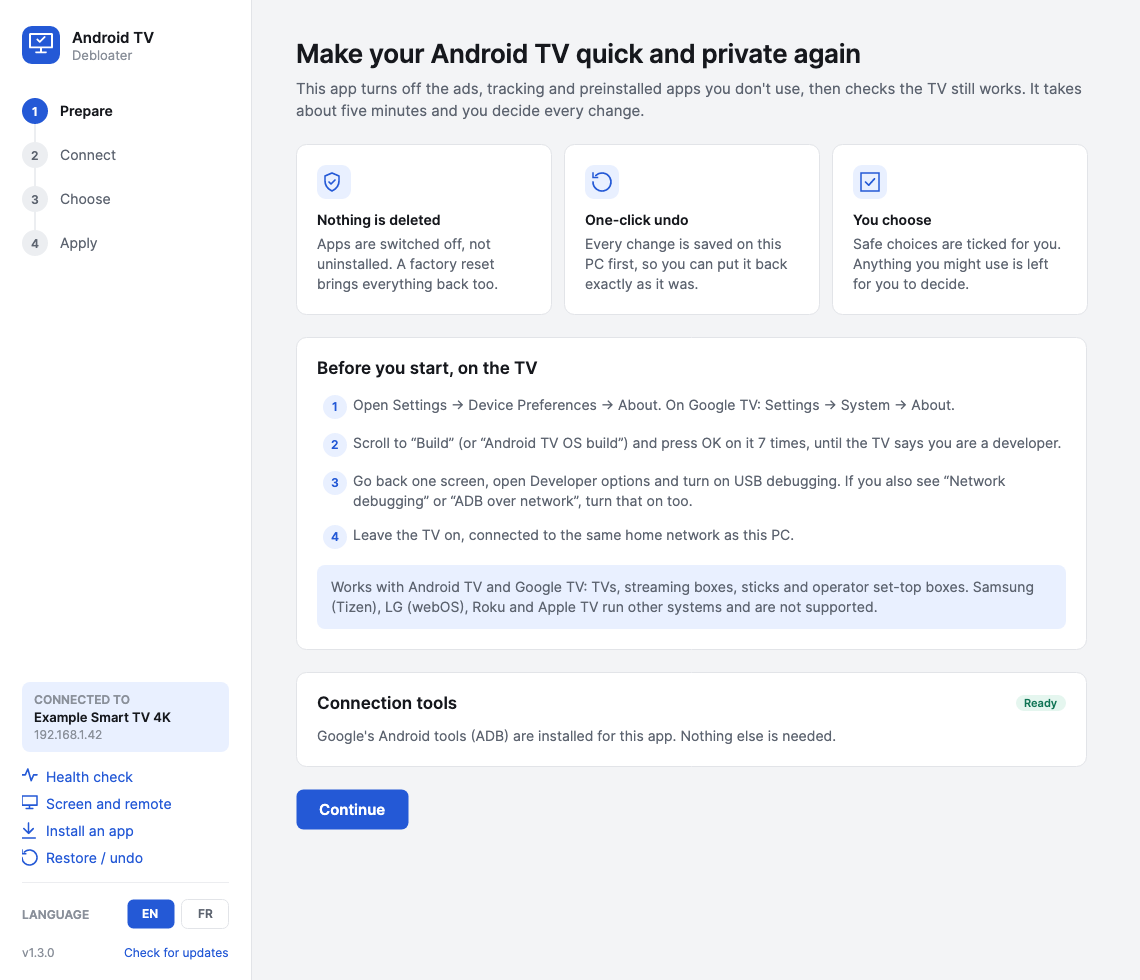
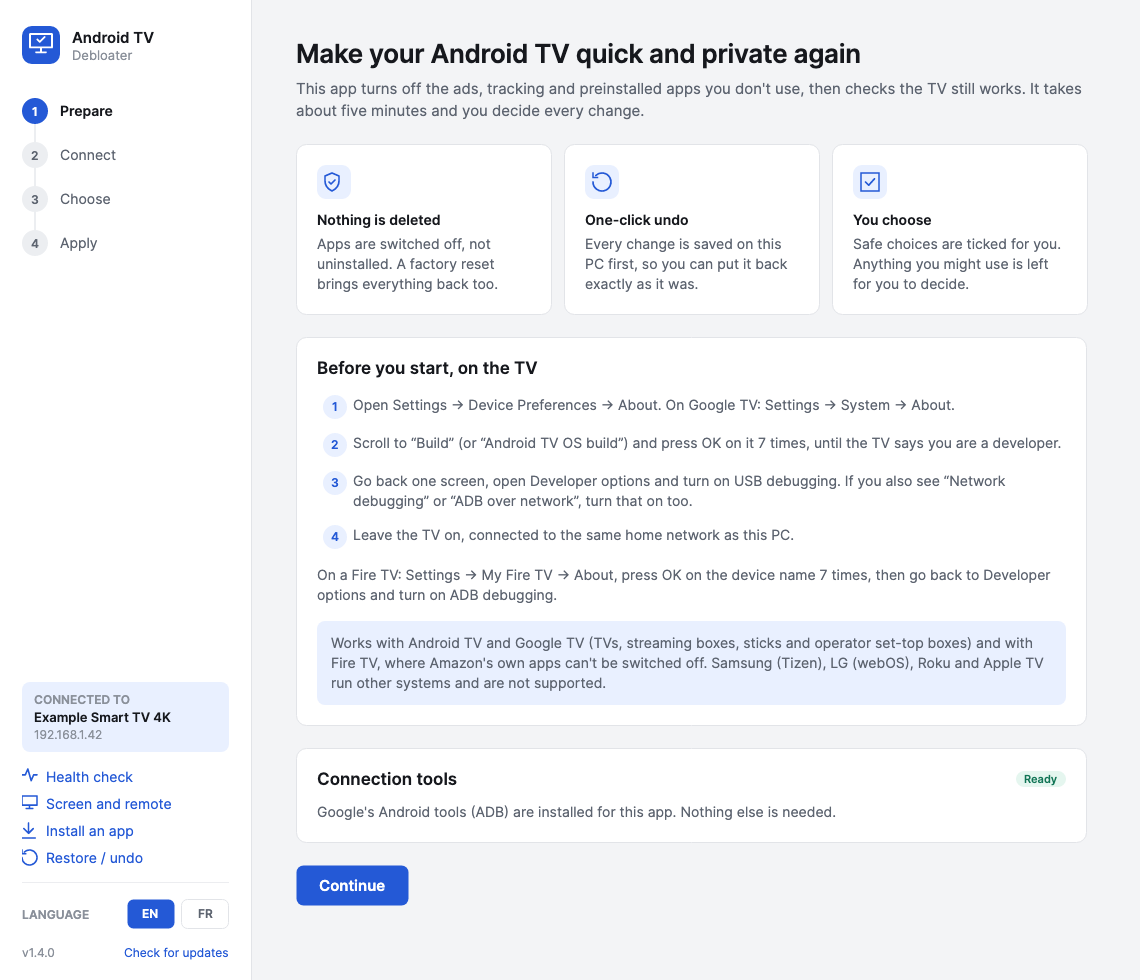
UI polish: aligned Mac sidebar tools, readable process names, local number formats
- Mac: the tools are a "Tools" section of the sidebar list, so icons share one
  column and the open tool is highlighted; the PC app marks it in bold.
- From any tool page, "Choose" in the steps leads back to the list (both apps).
- Health: Refresh is a toolbar button on Mac; the three tiles share one height;
  uptime reads "less than an hour" / "an hour"; system processes get readable
  names from a new "names" section of the catalog (v9).
- Numbers and dates follow the app's language on Windows/Linux (0,9 Go in French).
- Restore summary no longer says "1 applications"; remote placeholder fits.
- Fire TV: the simple screensaver is recommended again (confirmed working on
  Fire OS 7.6, along with private DNS).

diff --git a/mac/Sources/AndroidTVDebloater/App.swift b/mac/Sources/AndroidTVDebloater/App.swift
@@ -63,7 +63,7 @@ struct Sidebar: View {
     @Environment(AppModel.self) private var model
 
     var body: some View {
-        List(selection: Binding(get: { min(model.stepIndex, 3) }, set: { if let n = $0 { model.go(toStep: n) } })) {
+        List(selection: selection) {
             Section(L("Mac_Steps")) {
                 ForEach(0..<4, id: \.self) { i in
                     Label {
@@ -74,6 +74,16 @@ struct Sidebar: View {
                     }
                     .tag(i)
                     .selectionDisabled(!(i == min(model.stepIndex, 3) || model.canNavigate(toStep: i)))
+                }
+            }
+            // Tools for the connected TV. In the list, so icons share one column and the open one is highlighted.
+            if model.device != nil {
+                Section(L("Mac_Tools")) {
+                    ForEach(Self.tools, id: \.tag) { tool in
+                        Label(L(tool.key), systemImage: tool.icon)
+                            .tag(tool.tag)
+                            .selectionDisabled(model.isBusy)
+                    }
                 }
             }
         }
@@ -88,14 +98,6 @@ struct Sidebar: View {
                     .padding(10)
                     .frame(maxWidth: .infinity, alignment: .leading)
                     .background(.tint.opacity(0.12), in: RoundedRectangle(cornerRadius: 8))
-
-                    VStack(alignment: .leading, spacing: 8) {
-                        toolLink("Side_Health", "waveform.path.ecg") { model.goHealth() }
-                        toolLink("Side_Remote", "appletvremote.gen4") { model.goRemote() }
-                        toolLink("Side_Install", "square.and.arrow.down") { model.goInstall() }
-                        toolLink("Side_Restore", "arrow.uturn.backward") { model.goRestore() }
-                    }
-                    .disabled(model.isBusy)
                 }
                 Divider()
                 HStack {
@@ -113,8 +115,27 @@ struct Sidebar: View {
 }
 
 extension Sidebar {
-    func toolLink(_ key: String, _ icon: String, action: @escaping () -> Void) -> some View {
-        Button(action: action) { Label(L(key), systemImage: icon) }.buttonStyle(.link)
+    private static let tools: [(tag: Int, key: String, icon: String, page: Page)] = [
+        (10, "Side_Health", "waveform.path.ecg", .health),
+        (11, "Side_Remote", "appletvremote.gen4", .remote),
+        (12, "Side_Install", "square.and.arrow.down", .install),
+        (13, "Side_Restore", "arrow.uturn.backward", .restore),
+    ]
+
+    /// Steps are tagged 0-3, tools 10 and up.
+    private var selection: Binding<Int?> {
+        Binding(
+            get: { Self.tools.first { $0.page == model.page }?.tag ?? min(model.stepIndex, 3) },
+            set: { tag in
+                guard let tag else { return }
+                switch Self.tools.first(where: { $0.tag == tag })?.page {
+                case .health: model.goHealth()
+                case .remote: model.goRemote()
+                case .install: model.goInstall()
+                case .restore: model.goRestore()
+                default: model.go(toStep: tag)
+                }
+            })
     }
 }
 

diff --git a/mac/Sources/AndroidTVDebloater/Views/ToolsViews.swift b/mac/Sources/AndroidTVDebloater/Views/ToolsViews.swift
@@ -7,11 +7,7 @@ struct HealthView: View {
 
     var body: some View {
         PageLayout(title: L("Health_Title"), subtitle: L("Health_Lead")) {
-            HStack {
-                if health.isLoading { ProgressView().controlSize(.small) }
-                Spacer()
-                Button(L("Health_Refresh")) { Task { await health.refresh() } }.disabled(health.isLoading)
-            }
+            if health.isLoading { ProgressView().controlSize(.small) }
 
             if let r = health.report {
                 ForEach(health.tips) { tip in
@@ -27,9 +23,10 @@ struct HealthView: View {
                             Text(health.cpuText).fixedSize(horizontal: false, vertical: true)
                         }
                         .padding(6)
-                        .frame(maxWidth: .infinity, alignment: .leading)
+                        .frame(maxWidth: .infinity, maxHeight: .infinity, alignment: .topLeading)
                     }
                 }
+                .fixedSize(horizontal: false, vertical: true) // the three tiles share one height
 
                 Card(title: L("Health_TopTitle"), systemImage: "memorychip") {
                     Text(L("Health_TopText")).foregroundStyle(.secondary)
@@ -53,6 +50,11 @@ struct HealthView: View {
                 Button(L("Health_GoChoose")) { Task { await app.goChoose(reload: true) } }
             }
         }
+        .toolbar {
+            Button { Task { await health.refresh() } } label: { Label(L("Health_Refresh"), systemImage: "arrow.clockwise") }
+                .help(L("Health_Refresh"))
+                .disabled(health.isLoading)
+        }
     }
 
     private func gauge(_ title: String, _ used: Double, _ text: String) -> some View {
@@ -63,7 +65,7 @@ struct HealthView: View {
                 Text(text).foregroundStyle(.secondary)
             }
             .padding(6)
-            .frame(maxWidth: .infinity, alignment: .leading)
+            .frame(maxWidth: .infinity, maxHeight: .infinity, alignment: .topLeading)
         }
     }
 }
@@ -160,7 +162,7 @@ struct RemoteView: View {
                     Text(L("Remote_Keys")).font(.caption).foregroundStyle(.secondary).fixedSize(horizontal: false, vertical: true)
                 }
                 .padding(10)
-                .frame(width: 250)
+                .frame(width: 290)
             }
             .padding(.top, 70)
         }

diff --git a/mac/Sources/AndroidTVDebloater/Models/Catalog.swift b/mac/Sources/AndroidTVDebloater/Models/Catalog.swift
@@ -56,7 +56,10 @@ enum Catalog {
         var packages: [PackageDef]
         var settings: [SettingDef]?
         var keep: [KeepDef]?
+        var names: [NameDef]?
     }
+    /// A readable name for a system part (Health page). Never offered.
+    struct NameDef: Codable { var id: String; var name: LocText }
 
     /// Nil if the data isn't a catalog this version can use.
     static func parse(_ data: Data) -> File? {
@@ -98,7 +101,14 @@ enum Catalog {
     @MainActor static func isKeep(_ pkg: String) -> Bool { isKeep(current, pkg) }
 
     /// The catalog's name for an app, in the current language, if it has one.
-    @MainActor static func name(of pkg: String) -> String? { current.packages.first { $0.id == pkg }?.name.text }
+    /// A readable name for an app or process ("com.google.android.gms:snet" counts as its app).
+    @MainActor static func name(of pkg: String) -> String? {
+        for id in [pkg, String(pkg.split(separator: ":").first ?? "")] {
+            if let def = current.packages.first(where: { $0.id == id }) { return def.name.text }
+            if let n = current.names?.first(where: { $0.id == id }) { return n.name.text }
+        }
+        return nil
+    }
 
     /// Whether the Choose page would offer to turn this app off on this TV.
     @MainActor static func isOffered(_ dev: TvDevice, _ pkg: String) -> Bool {
@@ -167,9 +177,7 @@ enum Catalog {
         let options = (def.options ?? [])
             .filter { $0.installed.map(dev.isInstalled) ?? true }
             .map { TweakOption(label: $0.label, value: $0.value, keeps: $0.keeps ?? []) }
-        // The screensaver is not yet tested on Fire OS, whose own screensaver may ignore the setting.
-        let recommended = ((def.recommended ?? false) || (def.recommendedWhen.map { matches($0, dev) } ?? false))
-            && !(dev.isFireTv && def.kind == "screensaver")
+        let recommended = (def.recommended ?? false) || (def.recommendedWhen.map { matches($0, dev) } ?? false)
         let kind: Tweak.Kind
         switch def.kind ?? "settings" {
         case "settings":

diff --git a/mac/Sources/AndroidTVDebloater/Models/AppModel.swift b/mac/Sources/AndroidTVDebloater/Models/AppModel.swift
@@ -41,7 +41,9 @@ final class AppModel {
     }
 
     func canNavigate(toStep n: Int) -> Bool {
-        n < stepIndex && !isBusy && n < 3 && (n != 2 || device != nil)
+        // From a tool page (step 3 too), "Choose" leads back to the list.
+        let onTool = [.restore, .health, .install, .remote].contains(page)
+        return (n < stepIndex || (n == 2 && onTool)) && !isBusy && n < 3 && (n != 2 || device != nil)
     }
 
     func go(toStep n: Int) {
@@ -246,10 +248,12 @@ final class ConnectModel {
         RecentTvs.remember(address: target, name: dev.displayName)
         app.device = dev
         await app.goChoose()
-        // Development aid, with ATVD_CONNECT: ATVD_PAGE=health|remote opens a tool page (read-only).
+        // Development aid, with ATVD_CONNECT: ATVD_PAGE=health|remote|install|restore opens a tool page (read-only).
         switch ProcessInfo.processInfo.environment["ATVD_PAGE"] {
         case "health": app.goHealth()
         case "remote": app.goRemote()
+        case "install": app.goInstall()
+        case "restore": app.goRestore()
         default: break
         }
     }

diff --git a/mac/Sources/AndroidTVDebloater/Models/ToolsModels.swift b/mac/Sources/AndroidTVDebloater/Models/ToolsModels.swift
@@ -36,8 +36,10 @@ final class HealthModel {
 
     var cpuText: String {
         guard let r = report else { return "" }
-        let up = r.uptimeHours < 48 ? L("Health_Hours", Int(r.uptimeHours.rounded())) : L("Health_Days", Int((r.uptimeHours / 24).rounded()))
-        return L("Health_CpuText", String(format: "%.1f", r.load), r.cores, up)
+        let h = r.uptimeHours
+        let up = h < 0.5 ? L("Health_UnderHour") : h < 1.5 ? L("Health_OneHour")
+            : h < 48 ? L("Health_Hours", Int(h.rounded())) : L("Health_Days", Int((h / 24).rounded()))
+        return L("Health_CpuText", ChooseModel.oneDecimal(r.load), r.cores, up)
     }
 
     var tips: [HealthTip] {

diff --git a/src/AndroidTVDebloater/Localization/Strings.cs b/src/AndroidTVDebloater/Localization/Strings.cs
@@ -43,6 +43,8 @@ public static class Strings
         ["Health_StorageText"] = "{0} GB free of {1} GB",
         ["Health_CpuText"] = "Load {0} on {1} cores. On for {2}.",
         ["Health_Hours"] = "{0} hours",
+        ["Health_OneHour"] = "an hour",
+        ["Health_UnderHour"] = "less than an hour",
         ["Health_Days"] = "{0} days",
         ["Health_Mb"] = "{0} MB",
         ["Health_TopTitle"] = "Using the most memory",
@@ -76,7 +78,7 @@ public static class Strings
         ["Remote_VolDown"] = "Vol −",
         ["Remote_VolUp"] = "Vol +",
         ["Remote_TypeLabel"] = "TYPE ON THE TV",
-        ["Remote_TypeHint"] = "Search, password…",
+        ["Remote_TypeHint"] = "Search, password",
         ["Remote_Send"] = "Send",
         ["Remote_Keys"] = "Keyboard: arrows, Enter = OK, Backspace = Back, H = Home.",
         ["Side_CheckUpdates"] = "Check for updates",
@@ -227,7 +229,7 @@ public static class Strings
         ["Restore_RunsTitle"] = "Previous runs on this TV",
         ["Restore_Undo"] = "Undo this run",
         ["Restore_None"] = "No saved runs for this TV on this PC.",
-        ["Restore_Summary"] = "{0} apps turned off, {1} settings changed",
+        ["Restore_Summary"] = "Apps turned off: {0} · settings changed: {1}",
         ["Restore_Done"] = "Undone. The apps are back and the settings are as they were.",
         ["Restore_AllTitle"] = "Turn every app back on",
         ["Restore_AllText"] = "A safety net, even without a backup: turns back on every app that was switched off by hand on this TV, including by other tools. Apps the manufacturer disabled itself are left alone.",
@@ -292,6 +294,8 @@ public static class Strings
         ["Health_StorageText"] = "{0} Go libres sur {1} Go",
         ["Health_CpuText"] = "Charge {0} sur {1} cœurs. Allumé depuis {2}.",
         ["Health_Hours"] = "{0} heures",
+        ["Health_OneHour"] = "une heure",
+        ["Health_UnderHour"] = "moins d'une heure",
         ["Health_Days"] = "{0} jours",
         ["Health_Mb"] = "{0} Mo",
         ["Health_TopTitle"] = "Ce qui utilise le plus de mémoire",
@@ -325,7 +329,7 @@ public static class Strings
         ["Remote_VolDown"] = "Vol −",
         ["Remote_VolUp"] = "Vol +",
         ["Remote_TypeLabel"] = "ÉCRIRE SUR LE TÉLÉVISEUR",
-        ["Remote_TypeHint"] = "Recherche, mot de passe…",
+        ["Remote_TypeHint"] = "Recherche, mot de passe",
         ["Remote_Send"] = "Envoyer",
         ["Remote_Keys"] = "Clavier : flèches, Entrée = OK, Retour arrière = Retour, H = Accueil.",
         ["Side_CheckUpdates"] = "Mises à jour",
@@ -476,7 +480,7 @@ public static class Strings
         ["Restore_RunsTitle"] = "Opérations précédentes sur ce téléviseur",
         ["Restore_Undo"] = "Annuler cette opération",
         ["Restore_None"] = "Aucune opération enregistrée pour ce téléviseur sur ce PC.",
-        ["Restore_Summary"] = "{0} applications désactivées, {1} réglages modifiés",
+        ["Restore_Summary"] = "Applications désactivées : {0} · réglages modifiés : {1}",
         ["Restore_Done"] = "Annulé. Les applications sont revenues et les réglages sont comme avant.",
         ["Restore_AllTitle"] = "Réactiver toutes les applications",
         ["Restore_AllText"] = "Un filet de sécurité, même sans sauvegarde : réactive toutes les applications désactivées manuellement sur ce téléviseur, y compris par d'autres outils. Celles que le fabricant a désactivées lui-même ne sont pas touchées.",

diff --git a/src/AndroidTVDebloater/Models/Catalog.cs b/src/AndroidTVDebloater/Models/Catalog.cs
@@ -64,6 +64,8 @@ public static class Catalog
     }
     /// <summary>A known system part that must stay on: never offered, never reported as unknown.</summary>
     private sealed class KeepDef { public string Id { get; set; } = ""; }
+    /// <summary>A readable name for a system part (Health page). Never offered.</summary>
+    private sealed class NameDef { public string Id { get; set; } = ""; public Text Name { get; set; } = new(); }
     private sealed class OptionDef
     {
         public Text Label { get; set; } = new();
@@ -103,6 +105,7 @@ public static class Catalog
         public List<PackageDef> Packages { get; set; } = [];
         public List<SettingDef> Settings { get; set; } = [];
         public List<KeepDef> Keep { get; set; } = [];
+        public List<NameDef> Names { get; set; } = [];
     }
 
     private static readonly JsonSerializerOptions Json = new()
@@ -171,8 +174,17 @@ public static class Catalog
     public static bool IsKeep(string pkg) => _current.Keep.Any(k => k.Id == pkg);
 
     /// <summary>The catalog's name for an app, in the current language, if it has one.</summary>
-    public static string? NameOf(string pkg) =>
-        _current.Packages.FirstOrDefault(p => p.Id == pkg) is { } def ? L(def.Name).ToString() : null;
+    /// <summary>A readable name for an app or process ("com.google.android.gms:snet" counts as its app).</summary>
+    public static string? NameOf(string pkg)
+    {
+        var app = pkg.Split(':')[0];
+        foreach (var id in new[] { pkg, app })
+        {
+            if (_current.Packages.FirstOrDefault(p => p.Id == id) is { } def) return L(def.Name).ToString();
+            if (_current.Names.FirstOrDefault(n => n.Id == id) is { } n) return L(n.Name).ToString();
+        }
+        return null;
+    }
 
     /// <summary>Whether the Choose page would offer to turn this app off on this TV.</summary>
     public static bool IsOffered(TvDevice dev, string pkg) =>
@@ -262,8 +274,6 @@ public static class Catalog
             .Where(o => o.Installed is null || dev.IsInstalled(o.Installed))
             .Select(o => new TweakOption(L(o.Label), o.Value, o.Keeps)).ToList();
         var recommended = def.Recommended || (def.RecommendedWhen is not null && Matches(def.RecommendedWhen, dev));
-        // Not yet tested on Fire OS, whose own screensaver may ignore the setting.
-        if (dev.IsFireTv && def.Kind == "screensaver") recommended = false;
         var title = L(def.Name);
         var warning = def.Warning is null ? null : L(def.Warning);
 

diff --git a/src/AndroidTVDebloater/ViewModels/ToolsViewModels.cs b/src/AndroidTVDebloater/ViewModels/ToolsViewModels.cs
@@ -51,10 +51,17 @@ public sealed partial class HealthViewModel : PageViewModel
     public double StorageUsedPercent => Report is { StorageTotalMb: > 0 } r ? 100.0 * (r.StorageTotalMb - r.StorageFreeMb) / r.StorageTotalMb : 0;
     public string MemoryText => Report is null ? "" : Loc.Format("Health_MemoryText", Gb(Report.MemAvailableMb), Gb(Report.MemTotalMb));
     public string StorageText => Report is null ? "" : Loc.Format("Health_StorageText", Gb(Report.StorageFreeMb), Gb(Report.StorageTotalMb));
-    public string CpuText => Report is null ? "" : Loc.Format("Health_CpuText", Report.Load.ToString("0.0"), Report.Cores,
-        Report.UptimeHours < 48 ? Loc.Format("Health_Hours", Math.Round(Report.UptimeHours)) : Loc.Format("Health_Days", Math.Round(Report.UptimeHours / 24)));
+    public string CpuText => Report is null ? "" : Loc.Format("Health_CpuText", Report.Load.ToString("0.#", Loc.Culture), Report.Cores, Uptime(Report.UptimeHours));
 
-    private static string Gb(long mb) => (mb / 1024.0).ToString("0.0");
+    private static string Uptime(double hours) => hours switch
+    {
+        < 0.5 => Loc.Get("Health_UnderHour"),
+        < 1.5 => Loc.Get("Health_OneHour"),
+        < 48 => Loc.Format("Health_Hours", Math.Round(hours)),
+        _ => Loc.Format("Health_Days", Math.Round(hours / 24)),
+    };
+
+    private static string Gb(long mb) => (mb / 1024.0).ToString("0.#", Loc.Culture);
 
     partial void OnReportChanged(HealthReport? value)
     {

diff --git a/src/AndroidTVDebloater/ViewModels/MainViewModel.cs b/src/AndroidTVDebloater/ViewModels/MainViewModel.cs
@@ -67,7 +67,15 @@ public sealed partial class MainViewModel : ObservableObject
     {
         oldValue?.OnLeave();
         RefreshSteps();
+        foreach (var name in new[] { nameof(OnHealth), nameof(OnRemote), nameof(OnInstall), nameof(OnRestore) })
+            OnPropertyChanged(name);
     }
+
+    // Which sidebar tool is open, to mark it.
+    public bool OnHealth => CurrentPage is HealthViewModel;
+    public bool OnRemote => CurrentPage is RemoteViewModel;
+    public bool OnInstall => CurrentPage is InstallViewModel;
+    public bool OnRestore => CurrentPage is RestoreViewModel;
 
     /// <summary>Changes are being made to the TV: don't let the user leave the page.</summary>
     public bool IsBusy => CurrentPage is ApplyViewModel { IsFinished: false } or RestoreViewModel { IsBusy: true };
@@ -78,7 +86,9 @@ public sealed partial class MainViewModel : ObservableObject
         {
             s.IsActive = s.Number - 1 == CurrentPage.StepIndex;
             s.IsDone = s.Number - 1 < CurrentPage.StepIndex;
-            s.CanNavigate = s.IsDone && !IsBusy && s.Number < 4 && (s.Number != 3 || HasDevice);
+            // From a tool page (also step 3), "Choose" leads back to the list.
+            var onTool = CurrentPage is HealthViewModel or InstallViewModel or RemoteViewModel or RestoreViewModel;
+            s.CanNavigate = (s.IsDone || (s.Number == 3 && onTool)) && !IsBusy && s.Number < 4 && (s.Number != 3 || HasDevice);
         }
     }
 

diff --git a/src/AndroidTVDebloater/ViewModels/ChooseViewModel.cs b/src/AndroidTVDebloater/ViewModels/ChooseViewModel.cs
@@ -85,8 +85,8 @@ public sealed partial class ChooseViewModel : PageViewModel
     public string AndroidText => Device.FireOsVersion.Length > 0
         ? Device.FireOsVersion.Split(" (")[0]
         : Loc.Format("Choose_Android", Device.AndroidVersion);
-    public string RamText => Loc.Format("Choose_Ram", (Device.RamMb / 1024.0).ToString("0.#"));
-    public string StorageText => Loc.Format("Choose_Storage", (Device.StorageFreeMb / 1024.0).ToString("0.#"));
+    public string RamText => Loc.Format("Choose_Ram", (Device.RamMb / 1024.0).ToString("0.#", Loc.Culture));
+    public string StorageText => Loc.Format("Choose_Storage", (Device.StorageFreeMb / 1024.0).ToString("0.#", Loc.Culture));
     public bool HasStorage => Device.StorageTotalMb > 0;
     public string NetworkText => Loc.Get(Device.Network switch
     {
@@ -103,7 +103,7 @@ public sealed partial class ChooseViewModel : PageViewModel
 
     public bool HasReturned => Returned is not null;
     public string ReturnedText => Returned is null ? "" : Loc.Format("Choose_ReturnedText",
-        Returned.Since.ToString("g"), Returned.Packages.Count, Returned.Settings.Count);
+        Returned.Since.ToString("g", Loc.Culture), Returned.Packages.Count, Returned.Settings.Count);
 
     public bool IsFireTv => Device.IsFireTv;
     public bool FirePrivacyAllOff => FirePrivacyOn is [];

diff --git a/src/AndroidTVDebloater/Models/Backup.cs b/src/AndroidTVDebloater/Models/Backup.cs
@@ -1,3 +1,4 @@
+using AndroidTVDebloater.Localization;
 using System.Text.Json;
 using System.Text.Json.Serialization;
 using AndroidTVDebloater.Services;
@@ -29,7 +30,7 @@ public sealed class Backup
 
     [JsonIgnore] public string FilePath { get; set; } = "";
     [JsonIgnore] public int ChangeCount => DisabledPackages.Count + EnabledPackages.Count + Settings.Count + (WifiWasOn == true ? 1 : 0);
-    [JsonIgnore] public string CreatedText => Created.ToString("g");
+    [JsonIgnore] public string CreatedText => Created.ToString("g", Loc.Culture);
 
     private static readonly JsonSerializerOptions Json = new() { WriteIndented = true };
 

diff --git a/src/AndroidTVDebloater/Localization/Loc.cs b/src/AndroidTVDebloater/Localization/Loc.cs
@@ -52,8 +52,11 @@ public sealed class Loc : INotifyPropertyChanged
         return Strings.En.TryGetValue(key, out var en) ? en : key;
     }
 
+    /// <summary>Numbers and dates follow the app's language, not the computer's region.</summary>
+    public static CultureInfo Culture => CultureInfo.GetCultureInfo(Instance._language == "fr" ? "fr-FR" : "en-US");
+
     public static string Format(string key, params object[] args) =>
-        string.Format(CultureInfo.CurrentCulture, Get(key), args);
+        string.Format(Culture, Get(key), args);
 }
 
 /// <summary>Text in both languages, for catalog entries.</summary>
